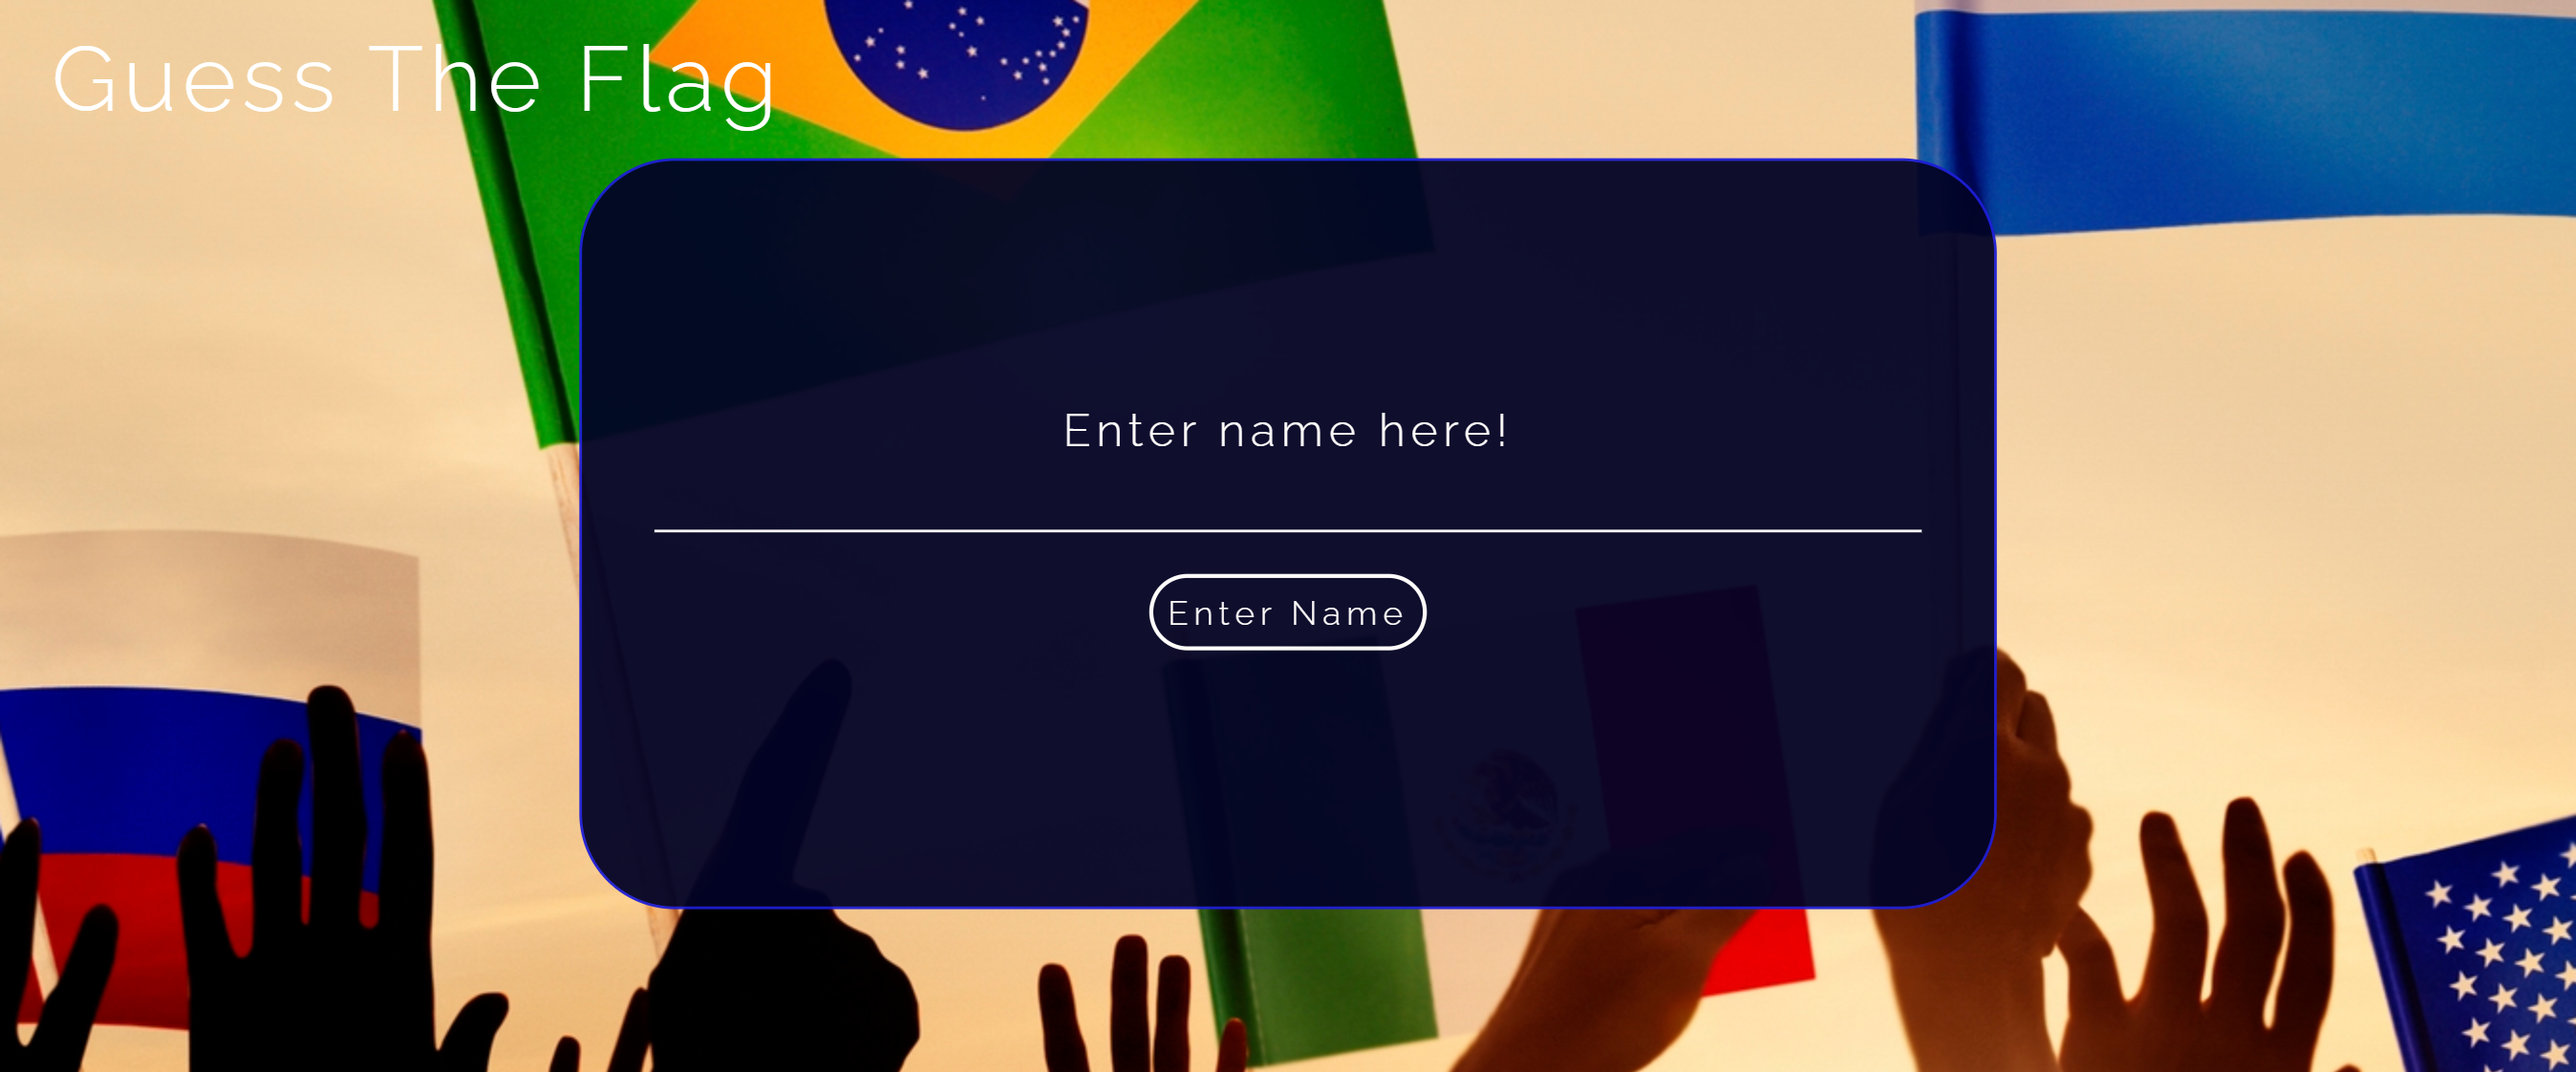
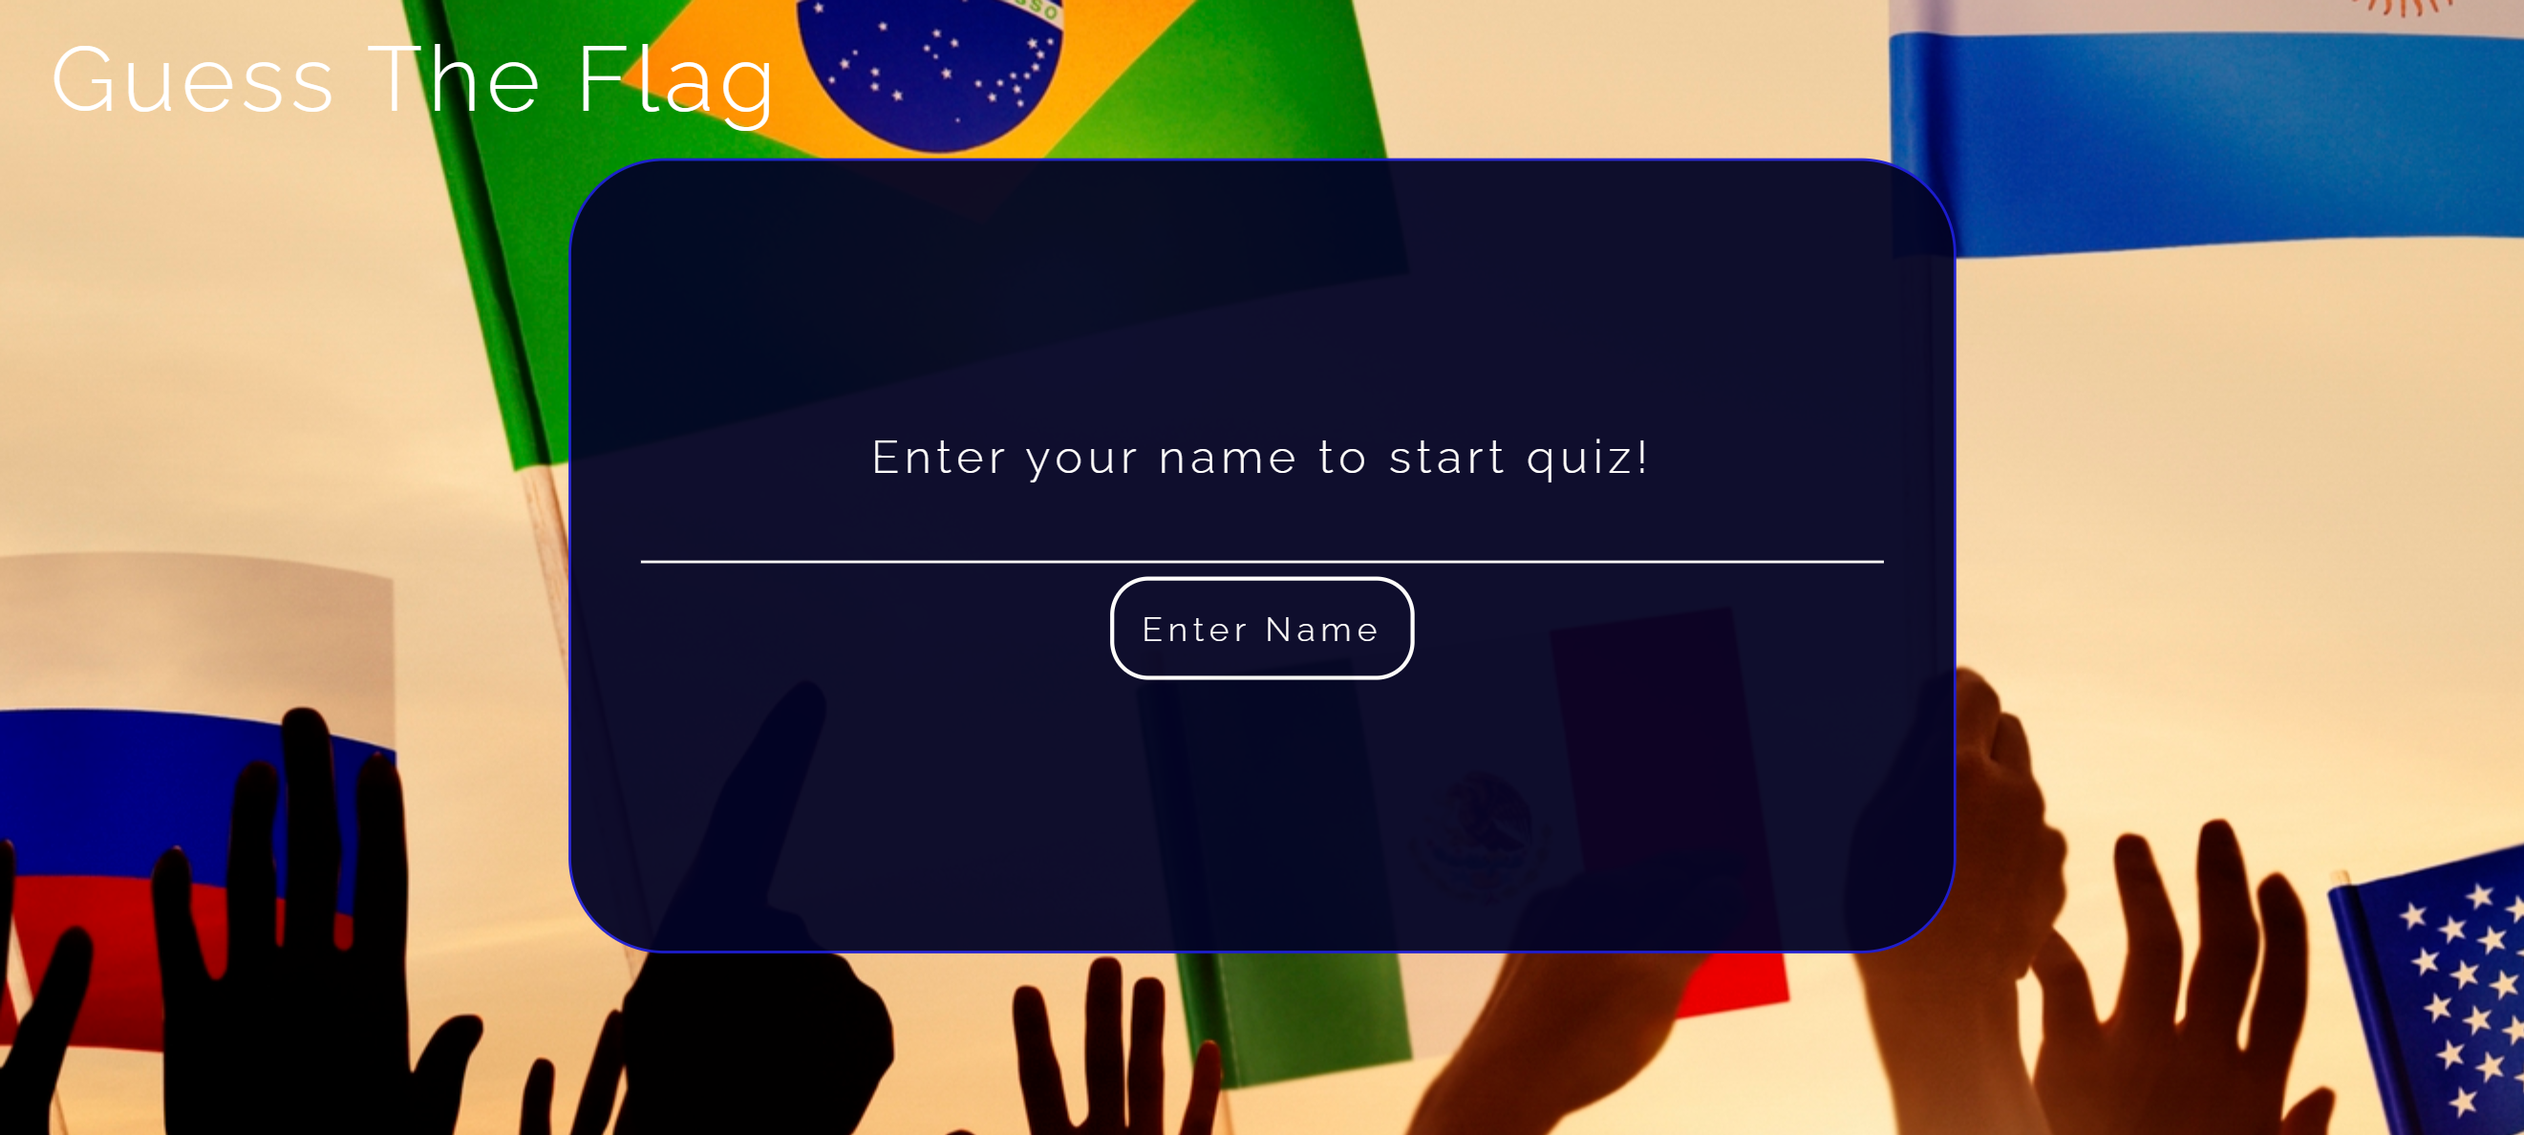
Add text to readme

diff --git a/assets/js/script.js b/assets/js/script.js
@@ -1,6 +1,3 @@
-/**
- * when page is refreshed it starts from the top of the page
- */
 
 const startSection = document.getElementById("start-section");
 const nameSection = document.getElementById("name-section");
@@ -21,6 +18,7 @@ function startButtonEnter(event) {
  */
 function nameButtonEnter(event) {
     event.preventDefault();
+    
     let inputName = document.getElementById("username").value;
     let inputNameArea = document.getElementById("username");
     let letters = /^[A-Za-z]+$/;
@@ -36,9 +34,10 @@ function nameButtonEnter(event) {
         flagSection.style.display = "flex";
         document.getElementById("user-answer").value = "";
         document.getElementById("user-answer").focus();
+    
         document.getElementById("name-display").innerHTML = `<h3>${inputName}, this is your result:</h3>`;
-
     }
+    
 
 }
 /* 
@@ -57,7 +56,7 @@ function playAgainButtonEnter(event) {
 
     document.getElementById("correct").innerText = "";
     document.getElementById("incorrect").innerText = "";
-
+    startQuiz();
 }
 
 /**
@@ -1082,7 +1081,7 @@ const flagData = {
         {
             imgCode: "zw",
             country: "Zimbabwe"
-        }
+        },
     ]
 };
 
@@ -1186,12 +1185,3 @@ userInput.addEventListener("keypress", function (event) {
     }
 });
 
-function correctAnswer() {
-    let inputArea = document.getElementById("user-answer");
-    inputArea.style.backgroundColor = "green";
-}
-
-function incorrectAnswer() {
-    let inputArea = document.getElementById("user-answer");
-    inputArea.style.backgroundColor = "green";
-}

diff --git a/assets/css/style.css b/assets/css/style.css
@@ -91,7 +91,7 @@ h3 {
     padding: 2%;
     letter-spacing: 3px;
     margin: 1%;
-    
+
 }
 
 /* Name area */
@@ -235,7 +235,7 @@ h3 {
 
 #name-display {
     width: 100%;
-    
+
     font-size: 100%;
 }
 
@@ -335,9 +335,7 @@ h3 {
         font-size: 150%;
     }
 
-    #name-display {
-     
-    }
+    #name-display {}
 
     #result {
         width: 100%;
@@ -376,7 +374,7 @@ h3 {
     }
 
     #start-container {
-        padding: 20% 5%;
+        padding-top: 10%;
 
     }
 
@@ -394,7 +392,7 @@ h3 {
 
     .button {
         padding: 5%;
-        margin-top: 15%;
+        margin: 10%;
         font-size: 80%;
     }
 
@@ -407,7 +405,7 @@ h3 {
         font-size: 80%;
         font-weight: 300;
         letter-spacing: 0px;
-        padding: 15% 10%;
+        padding: 5%;
         text-align: center;
     }
 
@@ -416,15 +414,19 @@ h3 {
         width: 65%;
     }
 
+    #quiz-container {
+        justify-content: center;
+    }
+
     #points {
-       
+
         margin-top: 3%;
     }
 
     #flag-image {
         max-height: 15vh;
         width: 70%;
-        margin-bottom: 15%;
+        margin-bottom: 1%;
     }
 
     #summary-outer {
@@ -437,7 +439,7 @@ h3 {
     }
 
     #name-display {
-        
+
         display: flex;
         flex-direction: column;
         align-items: center;

diff --git a/README.md b/README.md
@@ -35,6 +35,9 @@ Flag quiz is a site that challenges peoples flag skills as well as teaches them 
   * Name display
   * In this section the amount of correct and incorrect points will be displayed, to let the user know how the quiz went.
   * Under the result score is a play again button, which lets the user play the quiz again.
+
+  <img src="assets/images/result-section.png" alt="Result page">
+
   ---
 
 ### Features Left to Implement 
